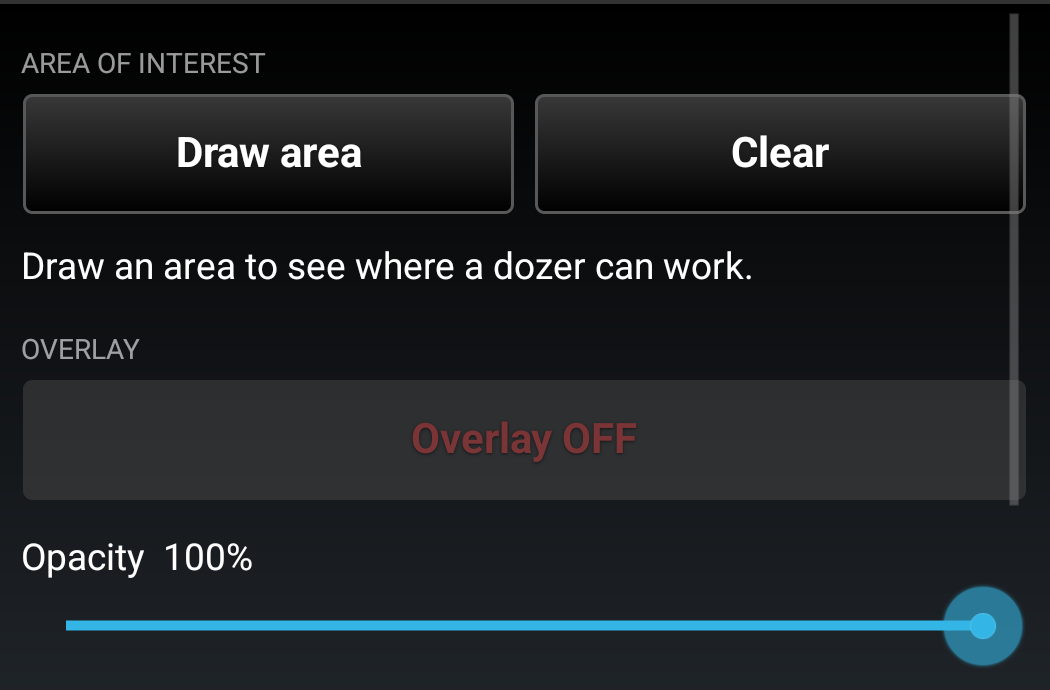
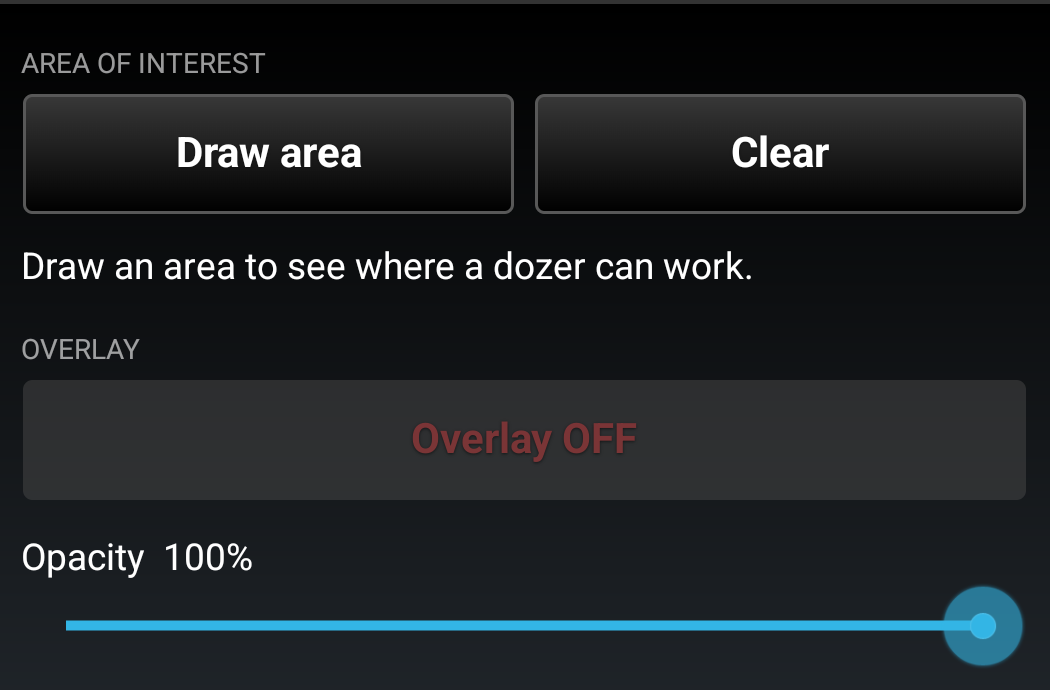
DozerCountry 0.3: the manual's pictures come from the signed 0.2
The 0.2 shots were taken against 0.1 and three of them showed pane text that
0.2 corrected, so they were cropped to hide it. Signed 0.2 went on the S22 and
the four pane frames were retaken against what it actually says:

  2.png   the panel idle, and the scrollbar no longer sits there
  3.png   the drawing prompt WITH the panel, which now agrees with ATAK's own
          prompt -- and shows Draw area becoming Cancel while the tool is up
  8.png   the classes with the caveat in the operator's words
  11.png  new: the legend on its dark plate, readable at last

No code change from 0.2. Same three targets.

Changed region(s): [[0.9448, 0.0, 0.9752, 0.7304]]

diff --git a/docs/USER_GUIDE.md b/docs/USER_GUIDE.md
@@ -1,12 +1,12 @@
 # Dozer Country for ATAK — User Guide
 
-**Version 0.2 · takwerx**
+**Version 0.3 · takwerx**
 
-**Download Dozer Country 0.2** (pick the one matching your ATAK-CIV version, sideload, then load it in ATAK's Plugins manager):
+**Download Dozer Country 0.3** (pick the one matching your ATAK-CIV version, sideload, then load it in ATAK's Plugins manager):
 
-- **ATAK-CIV 5.6:** https://github.com/takwerx/dozer-country/releases/download/v0.2/ATAK-Plugin-DozerCountry-0.2--5.6.0-civ-release.apk
-- **ATAK-CIV 5.7:** https://github.com/takwerx/dozer-country/releases/download/v0.2/ATAK-Plugin-DozerCountry-0.2--5.7.0-civ-release.apk
-- **ATAK-CIV 5.8:** https://github.com/takwerx/dozer-country/releases/download/v0.2/ATAK-Plugin-DozerCountry-0.2--5.8.0-civ-release.apk
+- **ATAK-CIV 5.6:** https://github.com/takwerx/dozer-country/releases/download/v0.3/ATAK-Plugin-DozerCountry-0.3--5.6.0-civ-release.apk
+- **ATAK-CIV 5.7:** https://github.com/takwerx/dozer-country/releases/download/v0.3/ATAK-Plugin-DozerCountry-0.3--5.7.0-civ-release.apk
+- **ATAK-CIV 5.8:** https://github.com/takwerx/dozer-country/releases/download/v0.3/ATAK-Plugin-DozerCountry-0.3--5.8.0-civ-release.apk
 
 All releases: https://github.com/takwerx/dozer-country/releases
 

diff --git a/README.md b/README.md
@@ -1,10 +1,10 @@
 ATAK Plugin — Dozer Country
 
-**Download Dozer Country 0.2** (pick the one matching your ATAK-CIV version, sideload, then load it in ATAK's Plugins manager):
+**Download Dozer Country 0.3** (pick the one matching your ATAK-CIV version, sideload, then load it in ATAK's Plugins manager):
 
-- **ATAK-CIV 5.6:** https://github.com/takwerx/dozer-country/releases/download/v0.2/ATAK-Plugin-DozerCountry-0.2--5.6.0-civ-release.apk
-- **ATAK-CIV 5.7:** https://github.com/takwerx/dozer-country/releases/download/v0.2/ATAK-Plugin-DozerCountry-0.2--5.7.0-civ-release.apk
-- **ATAK-CIV 5.8:** https://github.com/takwerx/dozer-country/releases/download/v0.2/ATAK-Plugin-DozerCountry-0.2--5.8.0-civ-release.apk
+- **ATAK-CIV 5.6:** https://github.com/takwerx/dozer-country/releases/download/v0.3/ATAK-Plugin-DozerCountry-0.3--5.6.0-civ-release.apk
+- **ATAK-CIV 5.7:** https://github.com/takwerx/dozer-country/releases/download/v0.3/ATAK-Plugin-DozerCountry-0.3--5.7.0-civ-release.apk
+- **ATAK-CIV 5.8:** https://github.com/takwerx/dozer-country/releases/download/v0.3/ATAK-Plugin-DozerCountry-0.3--5.8.0-civ-release.apk
 
 All releases: https://github.com/takwerx/dozer-country/releases
 
